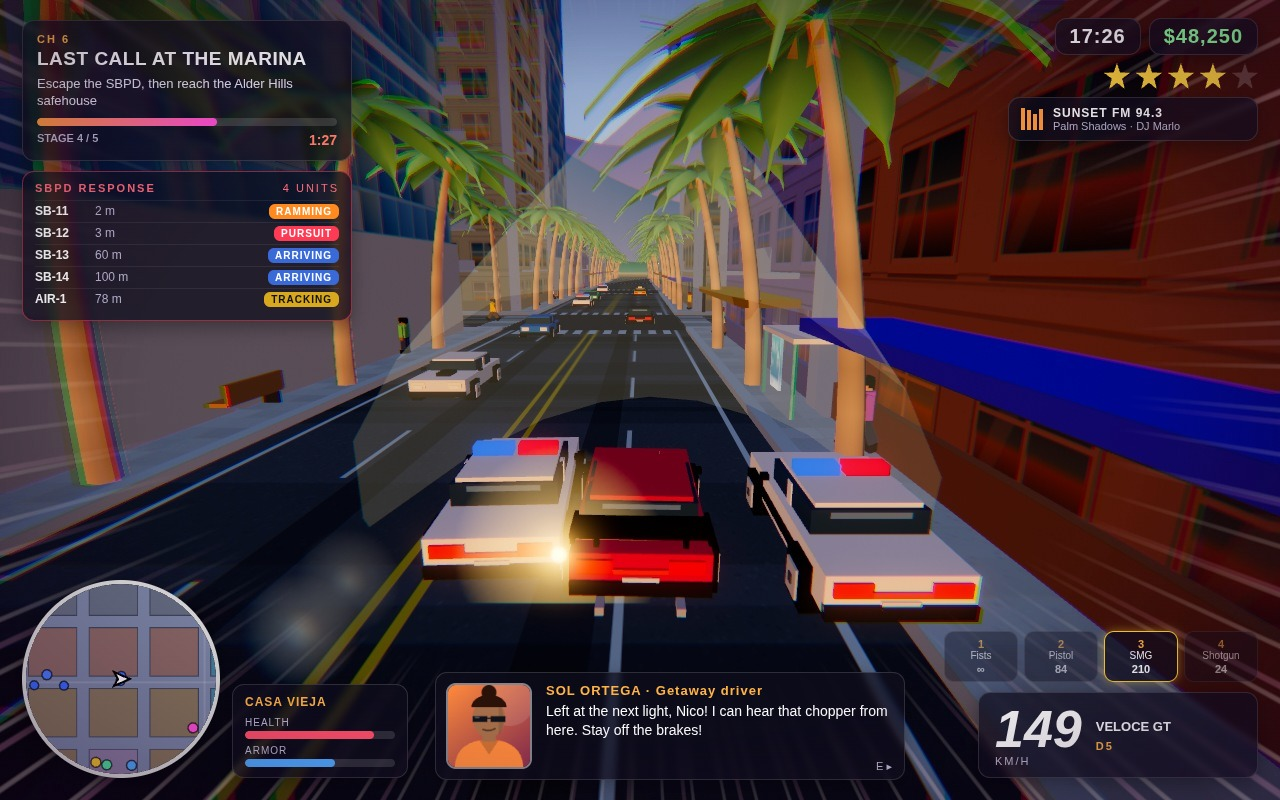
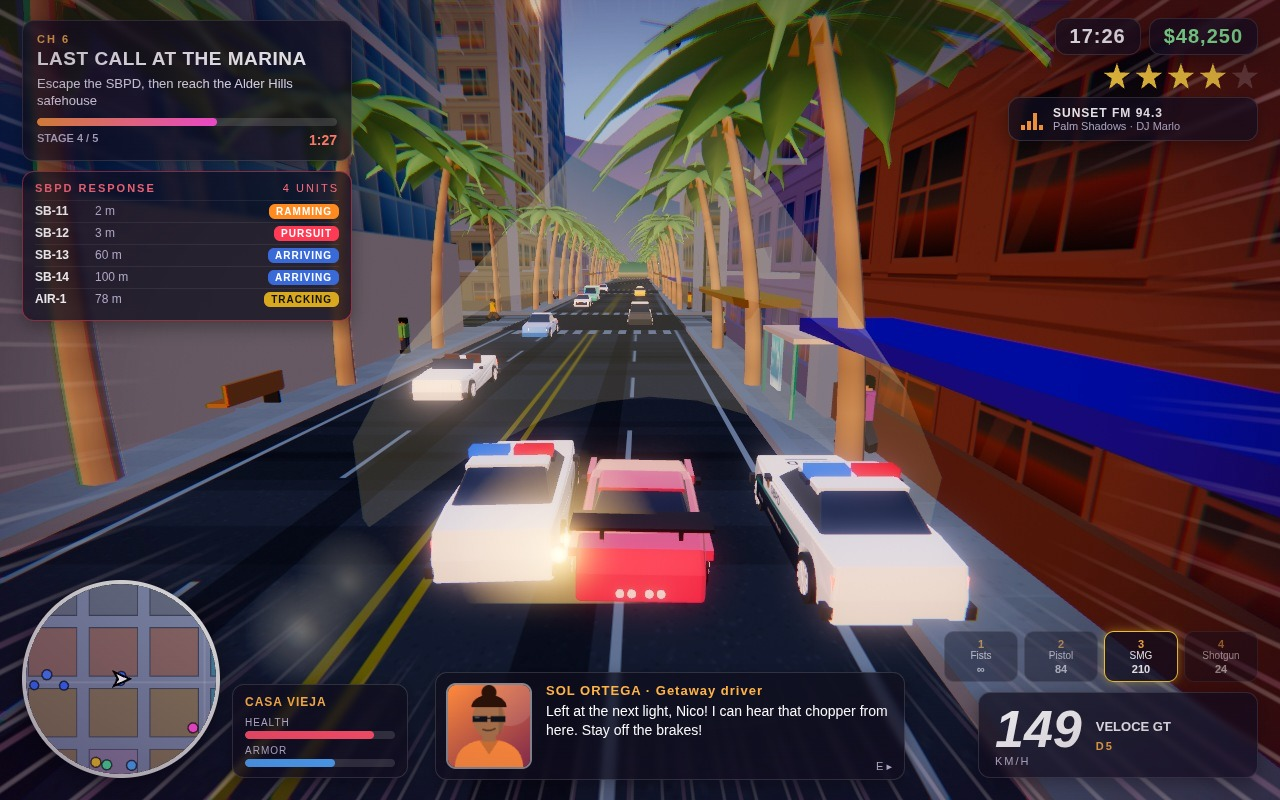
Vehicles: extruded tapered bodies, clearcoat paint with procedural env, spoked rims, HDR lights, SBPD livery, taxi/van/compact/convertible

diff --git a/game/src/vehicles/vehicleModels.js b/game/src/vehicles/vehicleModels.js
@@ -1,47 +1,163 @@
-// Original car models built from boxes: shared merged geometry per model, tinted body material per colour.
+// Original low-poly car models: each body is an extruded, bevelled side profile with wheel arches, tapered in plan
+// (narrower nose/tail, tumblehome greenhouse). Glossy clearcoat paint reflects a small procedural sky environment,
+// glass is dark tinted, rims have spokes, and head/tail lights carry HDR colours so they bloom.
 import * as THREE from 'three';
-import { newBuf, pushBox, toGeometry } from '../core/geometryUtils.js';
+import { G } from '../core/gameState.js';
+import { canvasTex } from '../world/textureFactory.js';
 
 export const CAR_TYPES = {
-  veloce: { name: 'Veloce GT', len: 4.5, wid: 1.95, cab: [0.4, 0.38, -0.3], roof: 1.2, max: 62, acc: 24, grip: 7, steer: 0.62, hp: 900, tint: 0xe83a5c },
-  marlin: { name: 'Marlin Sedan', len: 4.7, wid: 1.9, cab: [0.5, 0.5, -0.15], roof: 1.4, max: 40, acc: 15, grip: 8, steer: 0.6, hp: 1000, tint: 0x2f7fd8 },
-  tupelo: { name: 'Tupelo Cab', len: 4.7, wid: 1.9, cab: [0.5, 0.5, -0.15], roof: 1.4, max: 40, acc: 15, grip: 8, steer: 0.6, hp: 1000, tint: 0xf2c230 },
-  cadia: { name: 'Cadia Pickup', len: 5.1, wid: 2.0, cab: [0.34, 0.6, 0.55], roof: 1.7, max: 38, acc: 14, grip: 7, steer: 0.55, hp: 1100, tint: 0x2fb89a },
-  hawke: { name: 'Hawke SUV', len: 4.9, wid: 2.0, cab: [0.62, 0.62, -0.1], roof: 1.75, max: 42, acc: 16, grip: 7.5, steer: 0.55, hp: 1300, tint: 0x222831 },
-  rumble: { name: 'Rumble 69', len: 4.8, wid: 1.95, cab: [0.42, 0.42, -0.25], roof: 1.3, max: 52, acc: 22, grip: 6, steer: 0.6, hp: 1000, tint: 0xff8a3d },
-  interceptor: { name: 'SBPD Interceptor', len: 4.8, wid: 1.95, cab: [0.46, 0.46, -0.15], roof: 1.4, max: 52, acc: 20, grip: 8, steer: 0.62, hp: 900, tint: 0xffffff, police: true },
+  veloce: { name: 'Veloce GT', len: 4.5, wid: 1.98, cab: [0.4, 0.38, -0.3], roof: 1.2, max: 62, acc: 24, grip: 7, steer: 0.62, hp: 900, tint: 0xe83a5c },
+  marlin: { name: 'Marlin Sedan', len: 4.7, wid: 1.9, cab: [0.5, 0.5, -0.15], roof: 1.42, max: 40, acc: 15, grip: 8, steer: 0.6, hp: 1000, tint: 0x2f7fd8 },
+  tupelo: { name: 'Tupelo Cab', len: 4.7, wid: 1.9, cab: [0.5, 0.5, -0.15], roof: 1.42, max: 40, acc: 15, grip: 8, steer: 0.6, hp: 1000, tint: 0xf6c21c },
+  cadia: { name: 'Cadia Van', len: 5.1, wid: 2.0, cab: [0.34, 0.6, 0.55], roof: 2.05, max: 36, acc: 13, grip: 7, steer: 0.55, hp: 1200, tint: 0x2fb89a },
+  hawke: { name: 'Hawke SUV', len: 4.9, wid: 2.0, cab: [0.62, 0.62, -0.1], roof: 1.78, max: 42, acc: 16, grip: 7.5, steer: 0.55, hp: 1300, tint: 0x222831 },
+  rumble: { name: 'Rumble 69 Convertible', len: 4.8, wid: 1.95, cab: [0.42, 0.42, -0.25], roof: 1.15, max: 52, acc: 22, grip: 6, steer: 0.6, hp: 1000, tint: 0xff8a3d },
+  pico: { name: 'Pico Compact', len: 3.8, wid: 1.75, cab: [0.5, 0.5, -0.1], roof: 1.5, max: 38, acc: 16, grip: 8, steer: 0.66, hp: 800, tint: 0x8fd3c8 },
+  interceptor: { name: 'SBPD Interceptor', len: 4.8, wid: 1.95, cab: [0.46, 0.46, -0.15], roof: 1.44, max: 52, acc: 20, grip: 8, steer: 0.62, hp: 900, tint: 0xf7f8fa, police: true },
 };
-const geoCache = {}, matCache = {};
-const trimMat = new THREE.MeshLambertMaterial({ vertexColors: true });
-function build(key) {
-  const t = CAR_TYPES[key], W = t.wid, L = t.len, body = newBuf(), trim = newBuf(), [cl, ch, co] = t.cab;
-  pushBox(body, 0, 0.35, 0, W, 0.55, L, 0xffffff);
-  if (key === 'cadia') { pushBox(body, 0, 0.9, -L * 0.3, W * 0.95, 0.3, L * 0.38, 0xffffff); }
-  pushBox(trim, 0, 0.92, co * L * 0.3, W * 0.88, ch * 0.82, L * cl, 0x2a4560);
-  for (const sx of [-1, 1]) { pushBox(body, sx * W * 0.43, 0.92, co * L * 0.3, 0.08, ch * 0.82, L * cl * 0.1, 0xffffff); pushBox(trim, sx * (W / 2 + 0.08), 0.95, L * 0.16, 0.14, 0.1, 0.18, 0x15151a); }
-  pushBox(trim, 0, 0.92 + ch * 0.55, co * L * 0.3 - L * cl / 2 - 0.01, W * 0.6, ch * 0.2, 0.02, 0x6f93b4);
-  pushBox(body, 0, 0.92 + ch * 0.82, co * L * 0.3, W * 0.8, 0.07, L * cl * 0.92, 0xffffff);
-  if (key === 'rumble') pushBox(body, 0, 0.9, L * 0.28, 0.5, 0.12, 0.8, 0x111111);
-  if (key === 'veloce') { for (const sx of [-1, 1]) { pushBox(body, sx * 0.62, 0.9, -L * 0.45, 0.08, 0.3, 0.12, 0x111111); pushBox(body, sx * W * 0.47, 1.1, -L * 0.46, 0.06, 0.2, 0.62, 0x111111); pushBox(trim, sx * 0.55, 0.12, -L / 2 - 0.1, 0.12, 0.12, 0.3, 0xb8bcc8); } pushBox(body, 0, 1.18, -L * 0.46, W * 0.98, 0.06, 0.62, 0x111111); for (const sx of [-1, 1]) pushBox(trim, sx * 0.13, 0.9, L * 0.12, 0.14, 0.012, L * 0.38, 0xf4f4f4); }
-  if (t.police) { pushBox(body, 0, 0.45, 0, W + 0.04, 0.2, L * 0.55, 0x101820); pushBox(body, 0, 0.9, L * 0.28, W * 0.5, 0.04, 0.9, 0x101820); }
-  if (key === 'tupelo') pushBox(trim, 0, 0.92 + ch * 0.82 + 0.07, 0, 0.7, 0.22, 0.3, 0xfff2b0);
-  for (const sx of [-1, 1]) {
-    for (const sz of [-1, 1]) { pushBox(trim, sx * (W / 2 - 0.02), 0, sz * L * 0.32, 0.34, 0.74, 0.74, 0x101014); pushBox(trim, sx * (W / 2 + 0.16), 0.14, sz * L * 0.32, 0.05, 0.46, 0.46, 0xc8ced8); pushBox(trim, sx * (W / 2 + 0.19), 0.3, sz * L * 0.32, 0.03, 0.14, 0.14, 0x555a66); }
-    pushBox(trim, sx * (W / 2 - 0.35), 0.62, L / 2 + 0.01, 0.46, 0.2, 0.08, 0xfffbe0); pushBox(trim, sx * (W / 2 - 0.35), 0.6, L / 2 + 0.05, 0.3, 0.12, 0.03, 0xffffff);
-    pushBox(trim, sx * (W / 2 - 0.35), 0.62, -L / 2 - 0.01, 0.5, 0.2, 0.08, 0xff3030);
+// Side profiles (z: rear -> front is -L/2 -> +L/2, y: height). top = front-to-rear outline of the painted body;
+// cab = greenhouse outline (front base, roof front, roof rear, rear base); light heights; wheel radius.
+const PROFILES = {
+  veloce: { top: [[2.25, 0.4], [2.18, 0.6], [1.1, 0.78], [0.55, 0.84], [-1.65, 0.95], [-2.2, 0.93], [-2.25, 0.62]], cab: [[0.6, 0.83], [-0.2, 1.2], [-0.85, 1.19], [-1.8, 0.93]], hy: 0.55, ty: 0.8, r: 0.35, sport: true },
+  sedan: { top: [[2.35, 0.48], [2.3, 0.8], [1.05, 0.92], [0.85, 0.95], [-1.55, 0.99], [-2.3, 0.96], [-2.35, 0.55]], cab: [[0.85, 0.94], [0.05, 1.42], [-1.0, 1.42], [-1.6, 0.98]], hy: 0.66, ty: 0.82, r: 0.36 },
+  hawke: { top: [[2.45, 0.58], [2.4, 1.0], [1.3, 1.1], [1.1, 1.12], [-2.4, 1.16], [-2.45, 0.66]], cab: [[1.1, 1.1], [0.4, 1.78], [-2.2, 1.78], [-2.4, 1.16]], hy: 0.85, ty: 1.0, r: 0.4 },
+  cadia: { top: [[2.55, 0.55], [2.5, 0.92], [1.95, 1.05], [1.8, 1.08], [0.55, 2.02], [-2.5, 2.04], [-2.55, 0.62]], cab: [[1.85, 1.05], [1.2, 1.9], [0.62, 1.92], [0.62, 1.05]], hy: 0.8, ty: 1.2, r: 0.38 },
+  rumble: { top: [[2.4, 0.48], [2.35, 0.86], [0.75, 0.94], [-1.0, 0.94], [-2.35, 0.97], [-2.4, 0.55]], cab: null, hy: 0.68, ty: 0.82, r: 0.37 },
+  pico: { top: [[1.9, 0.5], [1.85, 0.84], [1.15, 0.95], [0.85, 0.98], [-1.75, 1.0], [-1.9, 0.6]], cab: [[0.85, 0.97], [0.15, 1.5], [-1.45, 1.48], [-1.78, 1.0]], hy: 0.66, ty: 0.85, r: 0.32 },
+};
+PROFILES.marlin = PROFILES.tupelo = PROFILES.interceptor = PROFILES.sedan;
+
+let envTex = null;
+function env() { // tiny procedural sky (azure top, peach horizon, warm ground) prefiltered for glossy reflections
+  if (envTex || !G.renderer) return envTex;
+  try {
+    const s = new THREE.Scene(), m = new THREE.ShaderMaterial({ side: THREE.BackSide, vertexShader: 'varying vec3 vP; void main(){ vP = position; gl_Position = projectionMatrix*modelViewMatrix*vec4(position,1.0); }',
+      fragmentShader: 'varying vec3 vP; void main(){ float h = normalize(vP).y; vec3 c = h > 0.0 ? mix(vec3(1.6,1.1,0.75), vec3(0.25,0.5,1.1), pow(h,0.5)) : mix(vec3(0.55,0.45,0.4), vec3(0.18,0.16,0.16), min(1.0,-h*4.0)); float s = max(dot(normalize(vP), normalize(vec3(1.0,0.25,0.35))),0.0); c += vec3(6.0,4.5,3.0)*pow(s,200.0); gl_FragColor = vec4(c,1.0); }' });
+    s.add(new THREE.Mesh(new THREE.SphereGeometry(10, 24, 12), m));
+    const pm = new THREE.PMREMGenerator(G.renderer); envTex = pm.fromScene(s, 0.02).texture; pm.dispose();
+  } catch (e) { envTex = null; }
+  return envTex;
+}
+
+// Merge simple geometries into one non-indexed buffer, painting each part a flat (possibly HDR) colour.
+function merge(parts) {
+  const P = [], N = [], C = [];
+  for (const [g0, col] of parts) {
+    const g = g0.index ? g0.toNonIndexed() : g0, p = g.attributes.position.array, n = g.attributes.normal.array, c = Array.isArray(col) ? col : new THREE.Color(col).toArray();
+    for (let i = 0; i < p.length; i += 3) { P.push(p[i], p[i + 1], p[i + 2]); N.push(n[i], n[i + 1], n[i + 2]); C.push(c[0], c[1], c[2]); }
   }
-  pushBox(trim, 0, 0.62, -L / 2 - 0.02, W * 0.4, 0.07, 0.06, 0xff4a4a); pushBox(trim, 0, 0.4, -L / 2 - 0.03, 0.5, 0.16, 0.03, 0xf2f2ee); pushBox(trim, 0, 0.3, L / 2, W, 0.2, 0.12, 0x222226); pushBox(trim, 0, 0.3, -L / 2, W, 0.2, 0.12, 0x222226);
-  return { body: toGeometry(body), trim: toGeometry(trim) };
+  const g = new THREE.BufferGeometry(); g.setAttribute('position', new THREE.Float32BufferAttribute(P, 3)); g.setAttribute('normal', new THREE.Float32BufferAttribute(N, 3)); g.setAttribute('color', new THREE.Float32BufferAttribute(C, 3)); g.computeBoundingSphere(); return g;
+}
+const B = (w, h, d, x, y, z, rx = 0) => { const g = new THREE.BoxGeometry(w, h, d); if (rx) g.rotateX(rx); return g.translate(x, y, z); };
+const cyl = (r, w, x, y, z, seg = 14) => new THREE.CylinderGeometry(r, r, w, seg).rotateZ(Math.PI / 2).translate(x, y, z);
+
+// Extrude a side profile across the car's width, then taper it in plan view.
+function extrudeProfile(shape, width, taper) {
+  const bt = 0.07, g = new THREE.ExtrudeGeometry(shape, { depth: Math.max(0.1, width - bt * 2), bevelEnabled: true, bevelThickness: bt, bevelSize: 0.05, bevelSegments: 2, curveSegments: 6 });
+  g.rotateY(-Math.PI / 2); g.translate(width / 2 - bt, 0, 0);
+  const p = g.attributes.position; for (let i = 0; i < p.count; i++) p.setX(i, p.getX(i) * taper(p.getY(i), p.getZ(i)));
+  g.computeVertexNormals(); return g;
+}
+function bodyShape(pr, L) {
+  const s = new THREE.Shape(), r = pr.r + 0.07, wz = L * 0.32, by = 0.26, top = pr.top;
+  s.moveTo(top[0][0], by); for (const [z, y] of top) s.lineTo(z, y); s.lineTo(top[top.length - 1][0], by);
+  s.lineTo(-wz - r, by); s.absarc(-wz, pr.r, r, Math.PI, 0, true); s.lineTo(wz - r, by); s.absarc(wz, pr.r, r, Math.PI, 0, true); s.lineTo(top[0][0], by);
+  return s;
+}
+const polyShape = (pts) => { const s = new THREE.Shape(); s.moveTo(pts[0][0], pts[0][1]); for (const [z, y] of pts.slice(1)) s.lineTo(z, y); s.lineTo(pts[0][0], pts[0][1]); return s; };
+
+const geoCache = {};
+function build(key) {
+  const t = CAR_TYPES[key], pr = PROFILES[key], W = t.wid, L = t.len, wz = L * 0.32, hl = L / 2;
+  const plan = (z) => 1 - 0.1 * Math.pow(Math.min(1, Math.abs(z) / hl), 3);
+  const paint = [extrudeProfile(bodyShape(pr, L), W, (y, z) => plan(z) * (1 - 0.05 * Math.max(0, Math.min(1, (y - 0.6) / 0.4))))];
+  const glass = [], trim = [], lights = [];
+  const DK = 0x141418, CH = [1.2, 1.2, 1.25], PLATE = 0xf4f4ee;
+  if (pr.cab) {
+    const [a, b2, c, d] = pr.cab, base = Math.min(a[1], d[1]), h = Math.max(b2[1], c[1]) - base;
+    glass.push(extrudeProfile(polyShape(pr.cab), W * 0.84, (y) => 1 - 0.2 * Math.max(0, (y - base) / h)));
+    const roofT = 0.06; // painted roof skin + pillars
+    paint.push(extrudeProfile(polyShape([[b2[0] - 0.05, b2[1] - 0.02], [b2[0] - 0.02, b2[1] + roofT], [c[0] + 0.02, c[1] + roofT], [c[0] + 0.05, c[1] - 0.02]]), W * 0.7, () => 1));
+    if (key === 'cadia') paint.push(extrudeProfile(polyShape([[0.62, 1.0], [0.55, 2.04], [-2.5, 2.06], [-2.55, 1.0]]), W, () => 1));
+  } else { // convertible: raked windscreen in a frame, seats and roll hoops
+    glass.push(B(W * 0.78, 0.42, 0.04, 0, 1.12, 0.62, -0.55)); trim.push([B(W * 0.8, 0.05, 0.08, 0, 1.31, 0.52, -0.55), DK]);
+    for (const sx of [-0.42, 0.42]) { trim.push([B(0.55, 0.12, 0.6, sx, 0.8, -0.35), 0x5a2a1a], [B(0.55, 0.62, 0.14, sx, 1.05, -0.62, 0.15), 0x5a2a1a], [B(0.08, 0.4, 0.08, sx, 1.1, -0.95), CH]); }
+    trim.push([B(W * 0.86, 0.06, 1.3, 0, 0.9, -0.2), 0x2a1a14]);
+  }
+  for (const sx of [-1, 1]) for (const sz of [-1, 1]) { // wheels: tyre, sidewall, spoked rim, hub
+    const x = sx * (W / 2 - 0.15), z = sz * wz, ox = x + sx * 0.14;
+    trim.push([cyl(pr.r, 0.3, x, pr.r, z, 16), 0x111113], [cyl(pr.r * 0.72, 0.02, ox, pr.r, z, 16), 0x2a2a2e], [cyl(pr.r * 0.66, 0.03, ox + sx * 0.005, pr.r, z, 16), [0.55, 0.57, 0.6]], [cyl(0.07, 0.05, ox + sx * 0.02, pr.r, z, 8), CH]);
+    for (let k = 0; k < 5; k++) { const sp = new THREE.BoxGeometry(0.03, pr.r * 1.25, 0.07); sp.rotateX(k / 5 * Math.PI); sp.translate(ox + sx * 0.02, pr.r, z); trim.push([sp, CH]); }
+    if (pr.sport) paint.push(B(0.12, 0.16, 0.95, sx * (W / 2 - 0.02), pr.r + 0.36, z)); // fender flare lip
+  }
+  const fz = pr.top[0][0], rz = pr.top[pr.top.length - 1][0], hy = pr.hy, ty = pr.ty;
+  for (const sx of [-1, 1]) {
+    lights.push([B(pr.sport ? 0.5 : 0.42, pr.sport ? 0.08 : 0.16, 0.12, sx * (W / 2 - 0.36), hy, fz + 0.01), [5, 4.7, 4.1]]); // headlights
+    lights.push([B(0.22, 0.05, 0.1, sx * (W / 2 - 0.36), hy - 0.13, fz + 0.01), [3.2, 1.9, 0.6]]); // amber DRL
+    trim.push([B(0.1, 0.09, 0.2, sx * (W / 2 + 0.04), pr.cab ? pr.cab[0][1] + 0.08 : 1.0, pr.cab ? pr.cab[0][0] - 0.2 : 0.5), DK]); // mirrors
+  }
+  if (pr.sport) {
+    lights.push([B(W * 0.86, 0.06, 0.08, 0, ty - 0.04, rz - 0.05), [4.5, 0.25, 0.2]]); // full-width tail bar
+    trim.push([B(W * 0.98, 0.05, 0.55, 0, 1.24, -1.95), DK]); for (const sx of [-0.55, 0.55]) trim.push([B(0.06, 0.3, 0.14, sx, 1.07, -1.95), DK]); // spoiler
+    trim.push([B(W * 0.9, 0.06, 0.4, 0, 0.3, fz - 0.1), DK], [B(W * 0.86, 0.16, 0.1, 0, 0.36, rz + 0.03), DK]); // splitter, diffuser
+    for (const sx of [-1, 1]) { trim.push([B(0.05, 0.16, 0.7, sx * (W / 2 - 0.0), 0.62, -0.75), DK]); for (const o of [0.12, 0.28]) trim.push([new THREE.CylinderGeometry(0.06, 0.06, 0.14, 10).rotateX(Math.PI / 2).translate(sx * o, 0.34, rz - 0.05), CH]); }
+    trim.push([B(0.7, 0.12, 0.06, 0, 0.5, fz - 0.02), DK]); // nose intake
+  } else {
+    for (const sx of [-1, 1]) lights.push([B(0.42, 0.2, 0.08, sx * (W / 2 - 0.32), ty - 0.08, rz - 0.05), [4.2, 0.22, 0.18]]);
+    trim.push([B(W * 0.52, 0.2, 0.08, 0, hy - 0.02, fz - 0.03), DK], [B(W + 0.02, 0.18, 0.16, 0, 0.36, fz - 0.04), 0x2a2a30], [B(W + 0.02, 0.18, 0.16, 0, 0.36, rz + 0.04), 0x2a2a30]); // grille, bumpers
+  }
+  trim.push([B(0.5, 0.13, 0.03, 0, 0.44, rz - 0.01), PLATE]);
+  if (key === 'interceptor') {
+    trim.push([B(W * 0.7, 0.42, 0.12, 0, 0.55, fz + 0.12), DK], [B(0.12, 0.42, 0.1, 0, 0.55, fz + 0.06), DK]); // push bar
+    trim.push([B(1.5, 0.08, 0.36, 0, t.roof + 0.0, -0.45), DK]); // light bar base
+    lights.push([B(0.16, 0.08, 0.06, 0.4, hy + 0.02, fz + 0.18), [0.4, 0.8, 5]], [B(0.16, 0.08, 0.06, -0.4, hy + 0.02, fz + 0.18), [5, 0.4, 0.4]]); // grille strobes
+  }
+  return { paint: merge(paint.map((g) => [g, 0xffffff])), glass: merge(glass.map((g) => [g, 0xffffff])), trim: merge(trim), lights: merge(lights) };
+}
+
+// SBPD livery: navy lower panel, teal sweep, shield badge and lettering, drawn on a canvas decal.
+let liveryTex = null, hoodTex = null;
+function livery() {
+  liveryTex = liveryTex || canvasTex(512, 128, (g) => {
+    g.clearRect(0, 0, 512, 128); g.fillStyle = '#16264a'; g.beginPath(); g.moveTo(0, 70); g.lineTo(512, 50); g.lineTo(512, 128); g.lineTo(0, 128); g.fill();
+    g.fillStyle = '#1fb5b0'; g.beginPath(); g.moveTo(0, 58); g.lineTo(512, 36); g.lineTo(512, 48); g.lineTo(0, 70); g.fill();
+    g.fillStyle = '#16264a'; g.font = 'bold 40px Arial Black, Arial, sans-serif'; g.textBaseline = 'middle'; g.fillText('SBPD', 196, 22);
+    g.fillStyle = '#ffffff'; g.font = 'bold 15px Arial, sans-serif'; g.fillText('SOLVANE BAY POLICE', 170, 100); g.fillText('DIAL 911', 40, 106);
+    g.fillStyle = '#d8a53a'; g.beginPath(); g.moveTo(140, 6); g.lineTo(176, 6); g.lineTo(176, 26); g.quadraticCurveTo(158, 44, 140, 26); g.fill();
+    g.fillStyle = '#16264a'; g.font = 'bold 13px Arial'; g.fillText('SB', 147, 19);
+  }, false);
+  hoodTex = hoodTex || canvasTex(256, 256, (g) => { g.clearRect(0, 0, 256, 256); g.fillStyle = '#16264a'; g.font = 'bold 84px Arial Black, Arial, sans-serif'; g.textAlign = 'center'; g.textBaseline = 'middle'; g.fillText('SBPD', 128, 128); g.fillStyle = '#1fb5b0'; g.fillRect(20, 186, 216, 14); }, false);
+  return { side: liveryTex, hood: hoodTex };
+}
+const taxiTex = () => canvasTex(256, 64, (g) => { g.fillStyle = '#fff6c8'; g.fillRect(0, 0, 256, 64); g.fillStyle = '#1a1a1a'; g.font = 'bold 34px Arial Black, Arial'; g.textAlign = 'center'; g.textBaseline = 'middle'; g.fillText('BAY CAB', 128, 34); }, false);
+
+const matCache = {};
+const shared = {};
+function sharedMats() {
+  if (shared.glass) return shared;
+  const e = env();
+  shared.glass = new THREE.MeshStandardMaterial({ color: 0x1a2430, roughness: 0.05, metalness: 0.6, envMap: e, envMapIntensity: 1.3 });
+  shared.trim = new THREE.MeshStandardMaterial({ vertexColors: true, roughness: 0.45, metalness: 0.3, envMap: e, envMapIntensity: 0.8 });
+  shared.lights = new THREE.MeshBasicMaterial({ vertexColors: true, toneMapped: false });
+  return shared;
 }
 export function buildCarMesh(key, tint) {
-  const g = geoCache[key] || (geoCache[key] = build(key)); const t = CAR_TYPES[key], c = tint ?? t.tint;
-  const mk = `${key}${c}`; const mat = matCache[mk] || (matCache[mk] = new THREE.MeshLambertMaterial({ color: c, vertexColors: true }));
-  const grp = new THREE.Group(); const a = new THREE.Mesh(g.body, mat), b = new THREE.Mesh(g.trim, trimMat); a.castShadow = b.castShadow = true; grp.add(a, b); grp.userData.bodyMesh = a;
+  const g = geoCache[key] || (geoCache[key] = build(key)); const t = CAR_TYPES[key], m = sharedMats();
+  const c = t.police ? t.tint : key === 'tupelo' ? t.tint : tint ?? t.tint;
+  const mk = `${key}${c}`;
+  const paint = matCache[mk] || (matCache[mk] = new THREE.MeshPhysicalMaterial({ color: c, roughness: 0.28, metalness: 0.25, clearcoat: 1, clearcoatRoughness: 0.05, envMap: env(), envMapIntensity: 0.75 }));
+  const grp = new THREE.Group(), a = new THREE.Mesh(g.paint, paint), gl = new THREE.Mesh(g.glass, m.glass), tr = new THREE.Mesh(g.trim, m.trim), li = new THREE.Mesh(g.lights, m.lights);
+  a.castShadow = gl.castShadow = tr.castShadow = true; grp.add(a, gl, tr, li); grp.userData.bodyMesh = a;
   if (t.police) {
-    const r = new THREE.Mesh(new THREE.BoxGeometry(0.7, 0.2, 0.35), new THREE.MeshBasicMaterial({ color: 0xff3040 })), bl = new THREE.Mesh(new THREE.BoxGeometry(0.7, 0.2, 0.35), new THREE.MeshBasicMaterial({ color: 0x4080ff }));
-    r.position.set(-0.4, t.roof + 0.05, 0); bl.position.set(0.4, t.roof + 0.05, 0); grp.add(r, bl); grp.userData.bar = { r, b: bl };
+    const lv = livery();
+    const sideLit = new THREE.MeshLambertMaterial({ map: lv.side, transparent: true, depthWrite: false, polygonOffset: true, polygonOffsetFactor: -2 });
+    for (const sx of [-1, 1]) { const d = new THREE.Mesh(new THREE.PlaneGeometry(2.9, 0.72), sideLit); d.position.set(sx * (t.wid / 2 + 0.035), 0.66, 0.1); d.rotation.y = sx * Math.PI / 2; grp.add(d); }
+    const hood = new THREE.Mesh(new THREE.PlaneGeometry(1.0, 1.0), new THREE.MeshLambertMaterial({ map: lv.hood, transparent: true, depthWrite: false })); hood.rotation.x = -Math.PI / 2 + 0.06; hood.position.set(0, 0.965, 1.55); grp.add(hood);
+    const bar = (col, x) => { const mm = new THREE.Mesh(new THREE.BoxGeometry(0.66, 0.16, 0.3), new THREE.MeshBasicMaterial({ color: col, toneMapped: false })); mm.position.set(x, t.roof + 0.12, -0.45); grp.add(mm); return mm; };
+    grp.userData.bar = { r: bar(0xff3040, -0.38), b: bar(0x4080ff, 0.38) };
   }
+  if (key === 'tupelo') { const s = new THREE.Mesh(new THREE.BoxGeometry(0.8, 0.26, 0.3), new THREE.MeshBasicMaterial({ map: taxiTex() })); s.position.set(0, t.roof + 0.18, -0.3); grp.add(s); }
   return grp;
 }
-export const CIVIL_TYPES = ['marlin', 'marlin', 'tupelo', 'cadia', 'hawke', 'rumble', 'veloce'];
-export const burntMat = new THREE.MeshLambertMaterial({ color: 0x1a1a1a, vertexColors: true });
+export const CIVIL_TYPES = ['marlin', 'marlin', 'tupelo', 'tupelo', 'cadia', 'hawke', 'rumble', 'pico', 'pico', 'veloce'];
+export const burntMat = new THREE.MeshLambertMaterial({ color: 0x1a1a1a });

diff --git a/game/src/combat/effects.js b/game/src/combat/effects.js
@@ -55,7 +55,7 @@ export function updateSirens(t) {
   for (const c of sirens) {
     if (c.dead || !c.mesh) continue; const s = c.siren, f = Math.floor((t * 5 + s.ph) % 2) === 0, a = Math.sin(c.heading), b = Math.cos(c.heading), h = c.type.roof + 0.25;
     s.gR.position.set(c.x + a * 0.2 + b * 0.5, h, c.z + b * 0.2 - a * 0.5); s.gB.position.set(c.x + a * 0.2 - b * 0.5, h, c.z + b * 0.2 + a * 0.5);
-    s.gR.visible = f; s.gB.visible = !f; if (c.bar) { c.bar.r.material.color.setHex(f ? 0xff3040 : 0x401018); c.bar.b.material.color.setHex(f ? 0x101840 : 0x4080ff); }
+    s.gR.visible = f; s.gB.visible = !f; if (c.bar) { c.bar.r.material.color.setHex(f ? 0xff3040 : 0x401018).multiplyScalar(f ? 4 : 1); c.bar.b.material.color.setHex(f ? 0x101840 : 0x4080ff).multiplyScalar(f ? 1 : 4.5); }
   }
 }
 
